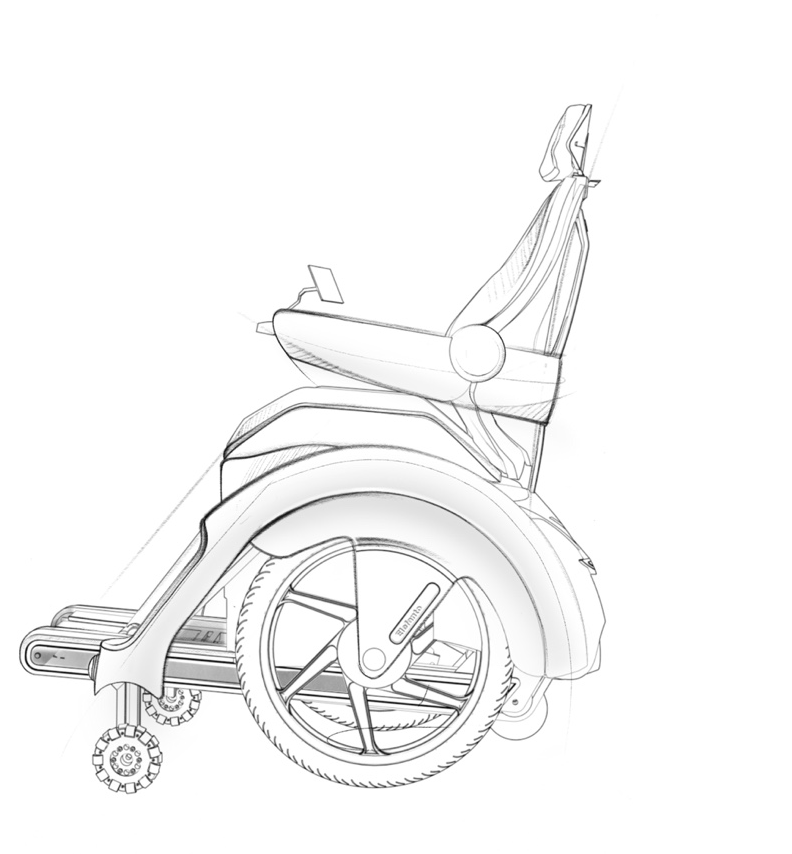
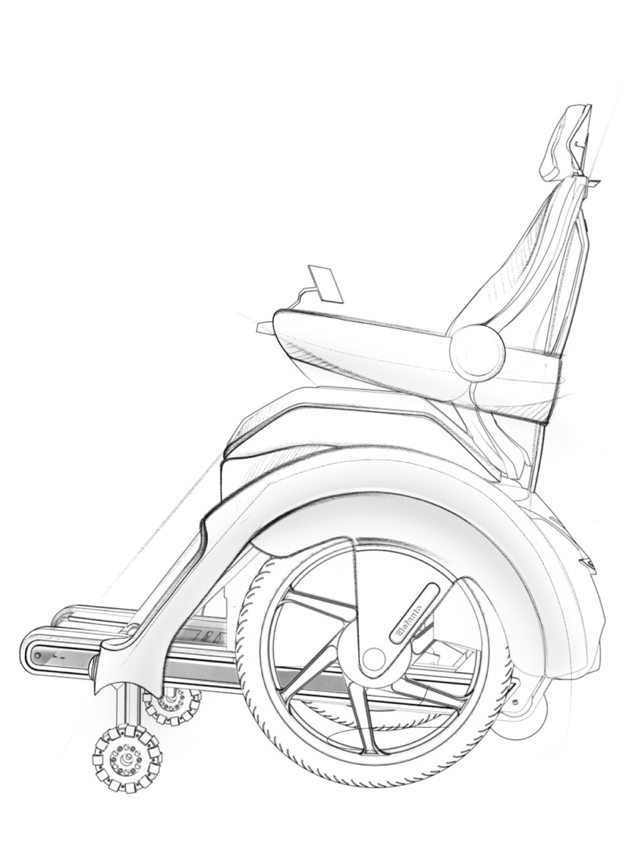
1-11 changed

Changed region(s): [[0.0304, 0.1228, 0.9712, 0.9516], [0.9105, 0.6446, 0.9712, 0.7981], [0.8195, 0.6753, 0.8498, 0.706]]

diff --git a/css/product-2.css b/css/product-2.css
@@ -253,8 +253,8 @@
 @media only screen and (max-width: 992px){
 
   .img-box-6{
-    transform: translateX(10%);
-    
+    transform: translateX(0%);
+
   }
 }
 
